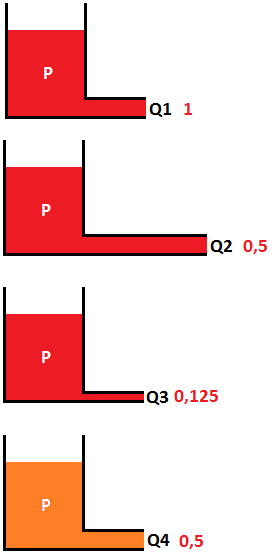
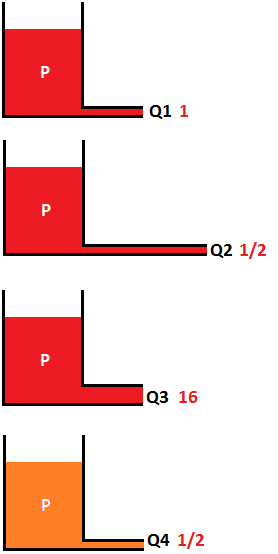
make some changes

diff --git a/Elettan/elettan.html b/Elettan/elettan.html
@@ -125,13 +125,16 @@
 		<li>késői ff.K<sup>+</sup>-csatornák: idegrost-AP vs SA-AP &#10140; mindkettőnél használhatom a "késői" jelzőt (de el is hagyhatom)</li>
 		<li>ligandfüggő EP -vs- ff AP &#10140; logika: ingerület terjedése alapján axonban az ff. is kiválthat eletrotónusos potenciált. Nohde, két előadásban tökre mást mondtak és írtak: <img class="mini" src="images/kerdes1.png"> <img class="mini" src="images/kerdes2.png"> <img class="mini" src="images/kerdes3.png"> &#10140; &#10140; &#10140; ingerületvezetést nem veszik elektrotónusos potenciálnak!! (szemináriumon mondták! így fogjam fel)</li>
 	  <hr>
+		<li>2.6.t</li> <ul>
+			<li>nyomások</li>
+			<li>áramlás és nyomás összefüggése valódi erekben &#10140; Hagen–Poiseuille törvény(3) feltétele a merev falú cső</li>
+		</ul>
 		<details><summary>skipped (LP)</summary><ul class="normal">
 			<li><span class="WHITE">vegetatív ggl</span> &#10140; mivel afferensek hatnak a ganglionsejtre, és az efferensként megy &#10140; <span class="Important">ezért léteznek olyan reflex-ívek is, melyek a vegetatív_ganglionban záródnak</span>, tehát központi idegrendszerig nem jut el <span class="MISS">pl!?</span></li>
 			<li>depolarizáció csak akkor valósulhat meg, ha ennek bezáródása megtörténik, hisz különben folyamatosan hiperpolarizálna &#10140; szerintem ez az oka, hogy itt nincs saját ingerképzés, mert ez megakadályozza</li>
 			<li>1.3 ff.Ca<sup>2+</sup>-csatornák nyílása (high/low voltage activated)</li>
 		</ul></details>
 	  <hr>
-		<li>2.6.t</li> 
 		<li>3.2.t &#10140; tüdő diffúziós kapacitásának egyenlet-átrendezése</li> 
 		<li><font style="font-size:80%">2.12.t &#10140; baroreceptorok tenzió érzékelésének bizonyítása</font></li> 
 		<li>3.1.t &#10140; mellkas tágulékonysága (megoldás asszem megvan, de ismertessem gyakorlaton)</li> 
@@ -3449,7 +3452,7 @@
 	</ul></details>
 <!----></details>
 
-<!----><details><summary class="phase">6. A keringési rendszer felépítése. Az egyes érszakaszok funkcionális szerepe. A nyomás és az áramlás összefüggése. Az artériás vérnyomás és mérése. Az artériás vérnyomást meghatározó tényezők. <span class="MISS">!!! hemodinamika</span></summary>
+<!----><details open><summary class="phase" style="background-color:yellow">6. A keringési rendszer felépítése. Az egyes érszakaszok funkcionális szerepe. A nyomás és az áramlás összefüggése. Az artériás vérnyomás és mérése. Az artériás vérnyomást meghatározó tényezők. <span class="MISS">!!! hemodinamika</span></summary>
 	<details class="kerdes 3/2"><summary><strong>A keringési rendszer felépítése</strong>. Az egyes érszakaszok funkcionális szerepe. A nyomás és az áramlás összefüggése. Az artériás vérnyomás és mérése. Az artériás vérnyomást meghatározó tényezők.</summary><ul class="normal">
 		<details class="kerdes 3/3"><summary><span class="Vocab">R</span> keringési_rendszer</summary><ul class="normal">
 			<img onerror="alert(this.src)" style="max-width:40%" data-src="krsghclgkt.png">
@@ -3492,7 +3495,7 @@
 					<tr><td>13%</td>  <td>7%</td>  <td>64%</td>  <td>9%</td>  <td>7%</td></tr>
 				</table>
 			</ul></details>
-			<details class="{133} kerdes 3/5"><summary>nagy vérkör adatok (ármérő,falvastagság,rugalmasrost,simaizom)</summary><ul class="normal">
+			<details class="{133} kerdes 3/5"><summary>nagy vérkör adatok (ármérő,falvastagság,összfelület,rugalmasrost,simaizom)</summary><ul class="normal">
 				<table>
 					<tr><th></th> 
 						<th>aorta(1)</th>  
@@ -3522,7 +3525,7 @@
 						<td>6cm<sup>2</sup></td>
 					</tr>
 					<tr><th>rugalmas rostok<abbr title="ez és a simaizom relatív mennyiségben (egymáshoz viszonyítva, tehát melyik milyen arányban vesz részt az érfal alkotásában) van feltűntetve leginkább szvsz">'</abbr></th>  
-						<td colspan="7"> nagyon sok  &#10140; csökken &#10140; arteriolákban még van &#10140; kapillárisokban nincs &#10140; venulákban van &#10140; nő &#10140; sok</td>
+						<td colspan="7"> nagyon sok > csökken > arteriolákban még van > kapillárisokban nincs &lt; venulákban már van &lt; nő &lt; sok</td>
 					</tr>
 					<tr><th>simaizom</th>  
 						<td colspan="7"> 'kevés' &lt; növekszik &lt; arteriolákban nagyon sok<abbr title="szinte csak ez alkotja">'</abbr> >>> kapillárisokban nincs == venulákban nincs &lt; van &lt; sok</td>
@@ -3550,7 +3553,7 @@
 			<div><span class="Vocab">§</span> Newtoni-folyadék &#10140; folyadék, melynek viszkozitása állandó</div>
 			<img onerror="alert(this.src)" data-src="prmmgkhjmjf.png">
 		</ul></details>
-		<li>a következő részben az 8db összefüggések kerül bemutatásra</li>
+		<span class="Important">a következőkben 8db összefüggés kerül bemutatásra</span>
 		<details open class="kerdes 2/j"><summary><span class="Vocab">JR</span> (0) saját megjegyzések segítségnek <span class="MISS">!?</span></summary><ul class="normal">
 			<div>&Delta;p = perfúziós_nyomás</div><ul>
 				<li>perfúziós_nyomásnak<abbr title="vagy átáramoltató">'</abbr> nevezzük bármely érszakasz bemenetén és kimenetén mért nyomások különbségét</li>
@@ -3560,16 +3563,15 @@
 			<img onerror="alert(this.src)" data-src="lklkjghmn.png">
 		</ul></details>
 		<details class="kerdes 3/2"><summary>(1) áramlási_sebesség(v) és összkeresztmetszet(A)</summary><ul class="normal">
-			<li>egy érnek van A<sub>1</sub> keresztmetszete, majd röviddel utána kiszélesedik és lesz A<sub>2</sub></li>
-			<li>kérdés áramlási_sebesség milyen a két esetben?</li>
+			<font style="font-size:80%">egy érnek van A<sub>1</sub> keresztmetszete, majd röviddel utána kiszélesedik és lesz A<sub>2</sub> &#10140; kérdés áramlási_sebesség milyen a két esetben?</font>
 		  <hr>
-			<li>ugye az Q = áramlás<abbr title="biofizikánál térfogati_áramerősség volt a neve">'</abbr> nem változik, azaz mindkét keresztmetszeten ugyanannyi vér jut át időegységenként</li>
+			<li>az áramlás=Q<abbr title="biofizikánál térfogati_áramerősség volt a neve">'</abbr> nem változik, azaz mindkét keresztmetszeten ugyanannyi vér jut át időegységenként</li>
 			<li>Q = A*v</li>
 			<li>A<sub>1</sub>*v<sub>1</sub> = A<sub>2</sub>*v<sub>2</sub></li>
-			<li>így a sebesség v<sub>1</sub>>v<sub>2</sub> kisebb lesz &#10140; v<sub>2</sub> = v<sub>1</sub> * A<sub>1</sub>/A<sub>2</sub>)</li>
+			<li>így a sebesség v<sub>1</sub>>v<sub>2</sub> kisebb lesz</li>
 		  <hr>
-			<li>FONTOS! azért összfelület van írva, mert ez ugyanúgy felhasználható több érre is egyszerre &#10140; pl. érszakaszok: aorta keresztmetszete 2,5cm<sub>2</sub> vs artériák 25cm<sub>2</sub> &#10140; artériákban tehát 10ed akkora az áramlás sebssége, mint aortában</li>
-			<details class="{129} kerdes 3/2"><summary><span class="Vocab">R</span> érszakaszok áramlási sebessége & összkeresztmetszete</summary><ul class="normal">
+			<li>FONTOS! azért összkeresztmetszet van írva, mert ez ugyanúgy felhasználható több érre is egyszerre &#10140; pl. aorta keresztmetszete 2,5cm<sub>2</sub> vs. artériák 25cm<sub>2</sub> &#10140; artériákban tehát 10ed akkora az áramlás sebssége, mint aortában</li>
+			<details class="{129} kerdes 3/2"><summary><span class="important">R</span> érszakaszok áramlási sebessége & összkeresztmetszete</summary><ul class="normal">
 				<li>összkeresztmetszet(y) &#10140; fekete vonal, 3értékkel</li>
 				<li>áramlási sebesség(y) &#10140; piros szaggatott vonal, 3értékkel</li>
 				<div>FONTOS! Q=Av megegyezik mindegyiknél <abbr title="ezért az egyszerűs megjegyezhetőség kedvéért kicsit át is írtam a számokat (tartományon belülit választottam, szóval elfogadhatók kell legyenek!)">'</abbr></div>
@@ -3580,27 +3582,34 @@
 		<details class="kerdes 3/3"><summary>(2) oldalnyomás és áramlási_sebesség</summary><ul class="normal">
 			<img onerror="alert(this.src)" data-src="kjkhhgjkm.png">
 			<li>Bernoulli törvényen alapszik (lásd kép)</li>
-			<li><abbr title="statikus_nyomás">oldalnyomás</abbr>(p); dinamikus_nyomás (1/2)ρv<sup>2</sup>); hidrosztatikai_nyomás(hρg);</li>
+			<li><abbr title="statikus_nyomás">oldalnyomás</abbr><span class="WHITE">p</span>; dinamikus_nyomás <span class="WHITE">(1/2)ρv<sup>2</sup></span>; hidrosztatikai_nyomás<span class="WHITE">hρg</span>;</li>
 			<li>van egy ér kiszélesedik <img onerror="alert(this.src)" class="mini" data-src="mlkhgjmn.png"> &#10140; akkor ott csökken az áramlási sebesség</li>
 			<li>felírható rá az alábbi összefüggés (kép elsősora), ami azon alapszik, hogy a p<sub>teljes</sub> állandó &#10140; ha az ér 'állandó magasságban' helyezkedik el, akkor tovább egyszerűsíthetünk (második sor)</li>
 			<li>ebből pedig következik &#10140; <span class="Important">áramlási_sebesség fordítottan arányos az oldalnyomással</span></li>
+			<details><summary>jelentősége</summary><ul class="normal">
+				<li>az aortában folyó vér sebességétől függ, a belőle szájadzó artériák oldalnyomása (fordítottan arányosak ugye!)</li>
+				<li>ezenkívül az artériák oldalnyomása szabja meg a benne folyó vér áramlását <span class="MISS">!?</span> <abbr title="ezt előadáson (2016.43:00 & 2017.41:00) mondták, de nemértem pontosan.">'</abbr></li>
+				<li>pl. ha plakk rakódik le aortában, akkor(hisz csökken keresztmetszet) nő a vér sebessége, akkor(hisz fordítottan arányosak) csökken az a.renalis oldalonyomása, akkor<abbr title="noh ez nem világos pontosan">(!?)</abbr> csökken a vese vérellátottsága</li>
+			</ul></details>
 			<img onerror="alert(this.src)" data-src="dhhjnmrt.png">
 		</ul></details>
 		<details class="kerdes 3/3"><summary>(3) áramlást meghatározó tényezők</summary><ul class="normal">
 			<img onerror="alert(this.src)" data-src="hjhggbmhn.png">
+			<li>ezt a <strong><abbr title="'hágen-poászöj'">Hagen-Poiseuille</abbr>-törvény</strong> írja le</li>
+			<li>aznban előtte egy kis bevezetés, hogy a tényezőket értsem</li>
 			<li>Q = áramlás<abbr title="biofizikánál térfogati_áramerősség volt a neve">'</abbr></li>
 			<li>kérdés &#10140; ha van egy állandó nyomású 'hajtóerő'(lásd képen pl.&Delta;p=h&rho;g), akkor az ér milyen paramétereitől függ az áramlás mértéke</li>
 		  <hr>
 			<li>Q<sub>1</sub> &#10140; 'alapesetben' mért áramlás</li>
-			<li>Q<sub>2</sub> &#10140; csak az ér hossza(&Delta;l) nő 2x-ére &#10140; áramlás értéke felére csökken Q<sub>2</sub> * 2 = Q<sub>1</sub> <font style="font-size:80%">(hiszen az 'érfal hosszab úton súrlódik vele')</font> &#10140; hosszúsággal fordítottan arányos</li>
-			<li>Q<sub>3</sub> &#10140; csak a sugár(R) csökken felére &#10140; áramlás a negyedére csökken Q<sub>3</sub> * 8 = Q<sub>1</sub>, négyzetesen arányos vele</li>
-			<li>Q<sub>4</sub> &#10140; csak a folyadék viszkozitása<abbr title="eta">(η)</abbr> nő 2x-ére <abbr title="(molekulák közti interakció mértéke más)"><font style="font-size:80%">(pl. víz helyett méz)</font></abbr> &#10140; áramlás a felére csökken &#10140; fordítottan arányosak</li>
-			<details class="kerdes 1/1"><summary>megjegyzés</summary><ul class="normal">
+			<li>Q<sub>2</sub> &#10140; csak az ér hossza(&Delta;l) nő 2x-ére &#10140; áramlás a felére csökken Q<sub>2</sub> * 2 = Q<sub>1</sub> <abbr title="(hiszen az 'érfal hosszab úton súrlódik vele')">'</abbr> &#10140; hosszúsággal fordítottan arányos</li>
+			<li>Q<sub>3</sub> &#10140; csak a sugár(R) nő 2x-ére &#10140; áramlás a 16x-osára nő Q<sub>3</sub> / 16 = Q<sub>1</sub> &#10140; sugár negyedik hatványával arányos</li>
+			<li>Q<sub>4</sub> &#10140; csak a folyadék viszkozitása<abbr title="eta">(η)</abbr> nő 2x-ére <abbr title="(molekulák közti interakció mértéke más)"><font style="font-size:80%">(pl. víz helyett méz)</font></abbr> &#10140; áramlás a felére csökken Q<sub>4</sub> * 2 = Q<sub>1</sub> &#10140; viszkozitással fordítottan arányosak</li>
+			<details><summary><font style="font-size:80%">megjegyzés</font></summary><ul class="normal">
 				<li>a fennti képen említett viszkozitás/hematokrit görbe kapillárisokon lett elvégezve</li>
 				<li>a viszkozitás változás mértéke azonban függ az átmérőtől is</li>
 			</ul></details>
 		  <hr>
-			<li>ezen mért adatok alapján felírható a <abbr title="'hágen-poászöj'">Hagen-Poiseuille</abbr>-törvény (lásd kép) &#10140; &Delta;P a két terület közti nyomáskülönbség (ez itt most állandó volt, h&rho;g)</li>
+			<li>ezen mért adatok alapján felírható a <strong><abbr title="'hágen-poászöj'">Hagen-Poiseuille</abbr>-törvény</strong> (lásd kép) &#10140; &Delta;p a két terület közti nyomáskülönbség (ez itt most állandó volt, h&rho;g)</li>
 			<img onerror="alert(this.src)" data-src="zkjhjzkljmlkn.png">
 		</ul></details>
 		<details class="{156} kerdes 3/1"><summary>(4) ellenállást meghatározó tényezők</summary><ul class="normal">
@@ -3620,9 +3629,9 @@
 				<img onerror="alert(this.src)" data-src="ghjjjhggfdds.png">
 			</ul></details>
 			<details class="kerdes 3/1"><summary>TPR hogy változik egy 'ágat'(szervet) kizárva?</summary><ul class="normal">
-				<div><font style="font-size:80%">az ember elsőre azt gondolná, hogy csökken, de nem...</font></div>
-				<li>nő, mivel az összes 'ág' párhuzamosan van kapcsolva</li>
-				<div><font style="font-size:80%">pl. vérnyomásmérésnél is ez történik lényegében, hisz ott egy 'ágat'(kar) kizárunk &#10140; nő a perifériás_ellenállás &#10140; nő a vérnyomás</font></div>
+				<li>nő, mivel az összes 'ág' párhuzamosan van kapcsolva <abbr title="az ember elsőre azt gondolná, hogy csökken, de nem...">'</abbr></li>
+				<li>pl. ha 1/R<sub>e</sub> = 1/20 + 1/20; akkor R<sub>e</sub> = 10 &#10140; ellenben ha egyiket kizárom, akkor 20 lesz az ellenállás</li>
+				<font style="font-size:80%">vérnyomásmérésnél is nő a perifériás ellenállás, hiszen ott egy 'ágat'(kar) kizárunk</font>
 			</ul></details>
 		</ul></details>
 		<details class="kerdes 2/2"><summary>(6) lamináris és turbulens áramlás lényege</summary><ul class="normal">
@@ -3631,13 +3640,13 @@
 				<tr><th>lamináris</th> <td>NEM keresztezik egymást <br><font style="font-size:80%">párhuzamos az eredő sebességel</font></td> </tr>
 				<tr><th>turbulens</th> <td>keresztezik egymást</td> </tr>
 			</table>
-			<li>turbulens 'rosszabb' &#10140; energetikai szmepontból, illetve a részecskéket is jobban károsítja</li>
+			<li>turbulens 'rosszabb' &#10140; energetikai szempontból, illetve a részecskéket is jobban károsítja</li>
 			<li>keringési rendszer nagy részében lamináris áramlás van <font style="font-size:80%">(kivétel pl. szívbillentyűk tájéka, vagy patológiás elváltozás)</font></li>
 			<details class="kerdes 2/1"><summary>hogy lehet kimutatni?</summary><ul class="normal">
 				<li>ha Reynolds-szám 2000-nél alacsonyabb, akkor lamináris</li>
 				<li>ha Reynolds-szám <abbr title="direkt ennyi, nem véletlen (előadásból)">3000</abbr>-nél magasabb, akkor turbulens</li>
 				<div><font style="font-size:80%">kettő között (2000-3000) nem lehet tudni</font></div>
-				<details class="kerdes 2/1"><summary>Reynolds-szám képlete?</summary><ul class="normal">
+				<details class="kerdes 2/2"><summary>Reynolds-szám képlete?</summary><ul class="normal">
 					<li>v = áramlási_sebesség(átlag)</li>
 					<li>&rho; = sűrűség</li>
 					<li>&eta; = viszkozitás</li>
@@ -3700,16 +3709,16 @@
 				</ul>
 			</ul></details>
 			<details class="kerdes 3/2"><summary>(1) tüdő_típusú_ereknél (kis_vérkör)</summary><ul class="normal">
-				<li>a nyomásnövekedés következtében az áramlás <abbr title="vártnál nagyobb mértékben">erősen</abbr> nő <abbr title="és ugyanez fordítva">'</abbr></li>
-				<li>ugyanis a nyomás növelésével az ellenállás értéke csökken</li>
+				<li>a nyomásnövekedés következtében az áramlás erősen(jobban, mintha egyenesen arányosan!!) nő <abbr title="és ugyanez fordítva">'</abbr></li>
+				<li><span class="Important">ugyanis a nyomás növelésével az ellenállás értéke csökken</span></li>
 				<li>ez pedig azért van, mert a kis_vérköri erek nagyon sok rugalmas rostot tartalmaznak &#10140; nyomásnöveléssel nő a sugara &#10140; tehát az ellenállás csökken &#10140; tehát áramlás erősen nő <img onerror="alert(this.src)" class="mini" data-src="sgsgstsf.png"></li>
 				<li>tehát ez egy passzív folyamat</li>
 				<img onerror="alert(this.src)" data-src="kthgmblnm.png">
 			</ul></details>
 			<details class="{143} kerdes 3/6"><summary>(2) autoreguláló_ereknél<abbr title="vese_típusú_ereknél">'</abbr> figyelhető meg</summary><ul class="normal">
-				<div>fontos! ez az 50-150Hgmm közt működik!! <abbr title="(felette már Ohm-törvény szerint arányosan nő a kettő már)">'</abbr></div>
+				<div><strong>fontos!! ez csak 50-150Hgmm közt figyelhető meg!!</strong> <abbr title="(felette már Ohm-törvény szerint arányosan nő a kettő már)">'</abbr></div>
 				<li>a nyomásváltozás következtében az áramlás <abbr title="pontosabban alig nő">nem</abbr> változik <abbr title="és ugyanez fordítva">'</abbr></li>
-				<li>ugyanis a nyomás növelésével az ellenállás értéke nő (és ugyanez fordítva)</li>
+				<li><span class="Important">ugyanis a nyomás növelésével az ellenállás értéke nő</span></li>
 				<li>oka</li><ul>
 					<li>miogén-válasz = Bayliss-effektus</li>
 					<li>metabolikus-szabályozás</li>
@@ -3732,15 +3741,14 @@
 					<li>lásd 2.7.t &#10140; szöveti_metabolizmus hogy eredményez vazodilatációt?</li>
 					<li><span class="MISS">szerkesszem meg majd! (ha működik az impQ)</span></li>
 				</ul></details>
-				<li>azért csak 150Hgmm-ig figyelhető meg, mert ott már a simaizmok kontrakciója maximális (tehát nincs tovább) &#10140; onnantól merev-falú csőként viselkedik</li>
+				<li>azért csak 150Hgmm-ig figyelhető meg, mert ott már a simaizmok kontrakciója maximális (tehát nincs tovább) &#10140; onnantól merev-falú csőként viselkedik &#10140; 150Hgmm felett már Ohm-törvény szerint arányosan nő a kettő már</li>
 			  <hr>
 				<li>előfordul &#10140; vesében, agy, szív(coronária) <abbr title="harántcsíkolt izmok stb.">'</abbr></li>
 				<li><font style="font-size:80%">izolált éren is megfigyelhető</font></li>
 			  <hr><strong>szerepe</strong>
-				<li>nem változik az egyes szervek <abbr title="ugye az áramlás nem változik, és annak következtében ez">vérellátása</abbr>, attól, hogy...</li><ul>
-					<li>pl. sérülés következtében vérzése van valakinek (aminek következtében ugye csökken a nyomás) &#10140; tehát ettől még nem lesz kevesebb</li>
-					<li>pl. felmegy a vérnyomás &#10140; tehát ettől nem lesz több</li>
-				</ul>
+				<br>nem változik az egyes szervek <abbr title="ugye az áramlás nem változik, és annak következtében ez">vérellátása</abbr>, attól, hogy...
+				<li>pl. sérülés következtében vérzése van valakinek (aminek következtében ugye csökken a nyomás) &#10140; tehát ettől még nem lesz kevesebb</li>
+				<li>pl. felmegy a vérnyomás &#10140; tehát ettől nem lesz több</li>
 				<img onerror="alert(this.src)" data-src="kthgmblnm.png">
 			</ul></details>
 		</ul></details>

diff --git a/javascript.js b/javascript.js
@@ -4,6 +4,7 @@
 }*/
 
 /* PROJECT - PROGRESS
+ ✖: upgrade elcsesződik, ha úgy frissítek, hogy nincs a kérdésverzió megnyitva
  ✖: Qid-t vegyem ki!!!
  ✖: upgrade Q-nál alapból az 1-es legyen kijelölve, ne a skip
 
@@ -2050,10 +2051,14 @@ function func_calcRepeat() { // átlagIsmétlések számát kiszámolja
 					if ( LSid == undefined ) { 
 						alert(LSid+ " " +hossz+ " " +prior+ " " +Number(localStorage.getItem(LSid+'_repeat')))
 					}
-					if ( hossz != "?" ) {
+					if ( hossz != "?" && hossz != "j" ) {
 						questCount = questCount + prior*hossz
 						allRepVal = allRepVal + prior*hossz *Number(localStorage.getItem(LSid+'_repeat'))
 					}
+					/*if ( isNaN(allRepVal) == true || isNaN(questCount) == true ) {
+						alert("allRepVal: " +allRepVal+ " & " +questCount+ " :questCount")
+						alert(LSid+ " " +hossz+ " " +prior+ " " +Number(localStorage.getItem(LSid+'_repeat')))
+					}*/
 				}
 			}
 		}
@@ -2412,6 +2417,7 @@ function F_prevQ(){
 	F_temakorStatus()
 
 	var lastSavedLS = localStorage.getItem("hk.lastSavedLS")
+	lastSavedLS = Number(lastSavedLS)
 	if ( lastSavedLS == 10 || lastSavedLS > 10 ) {
 		localStorage.setItem("hk.lastSavedLS",0)
 		func_saveLS()
